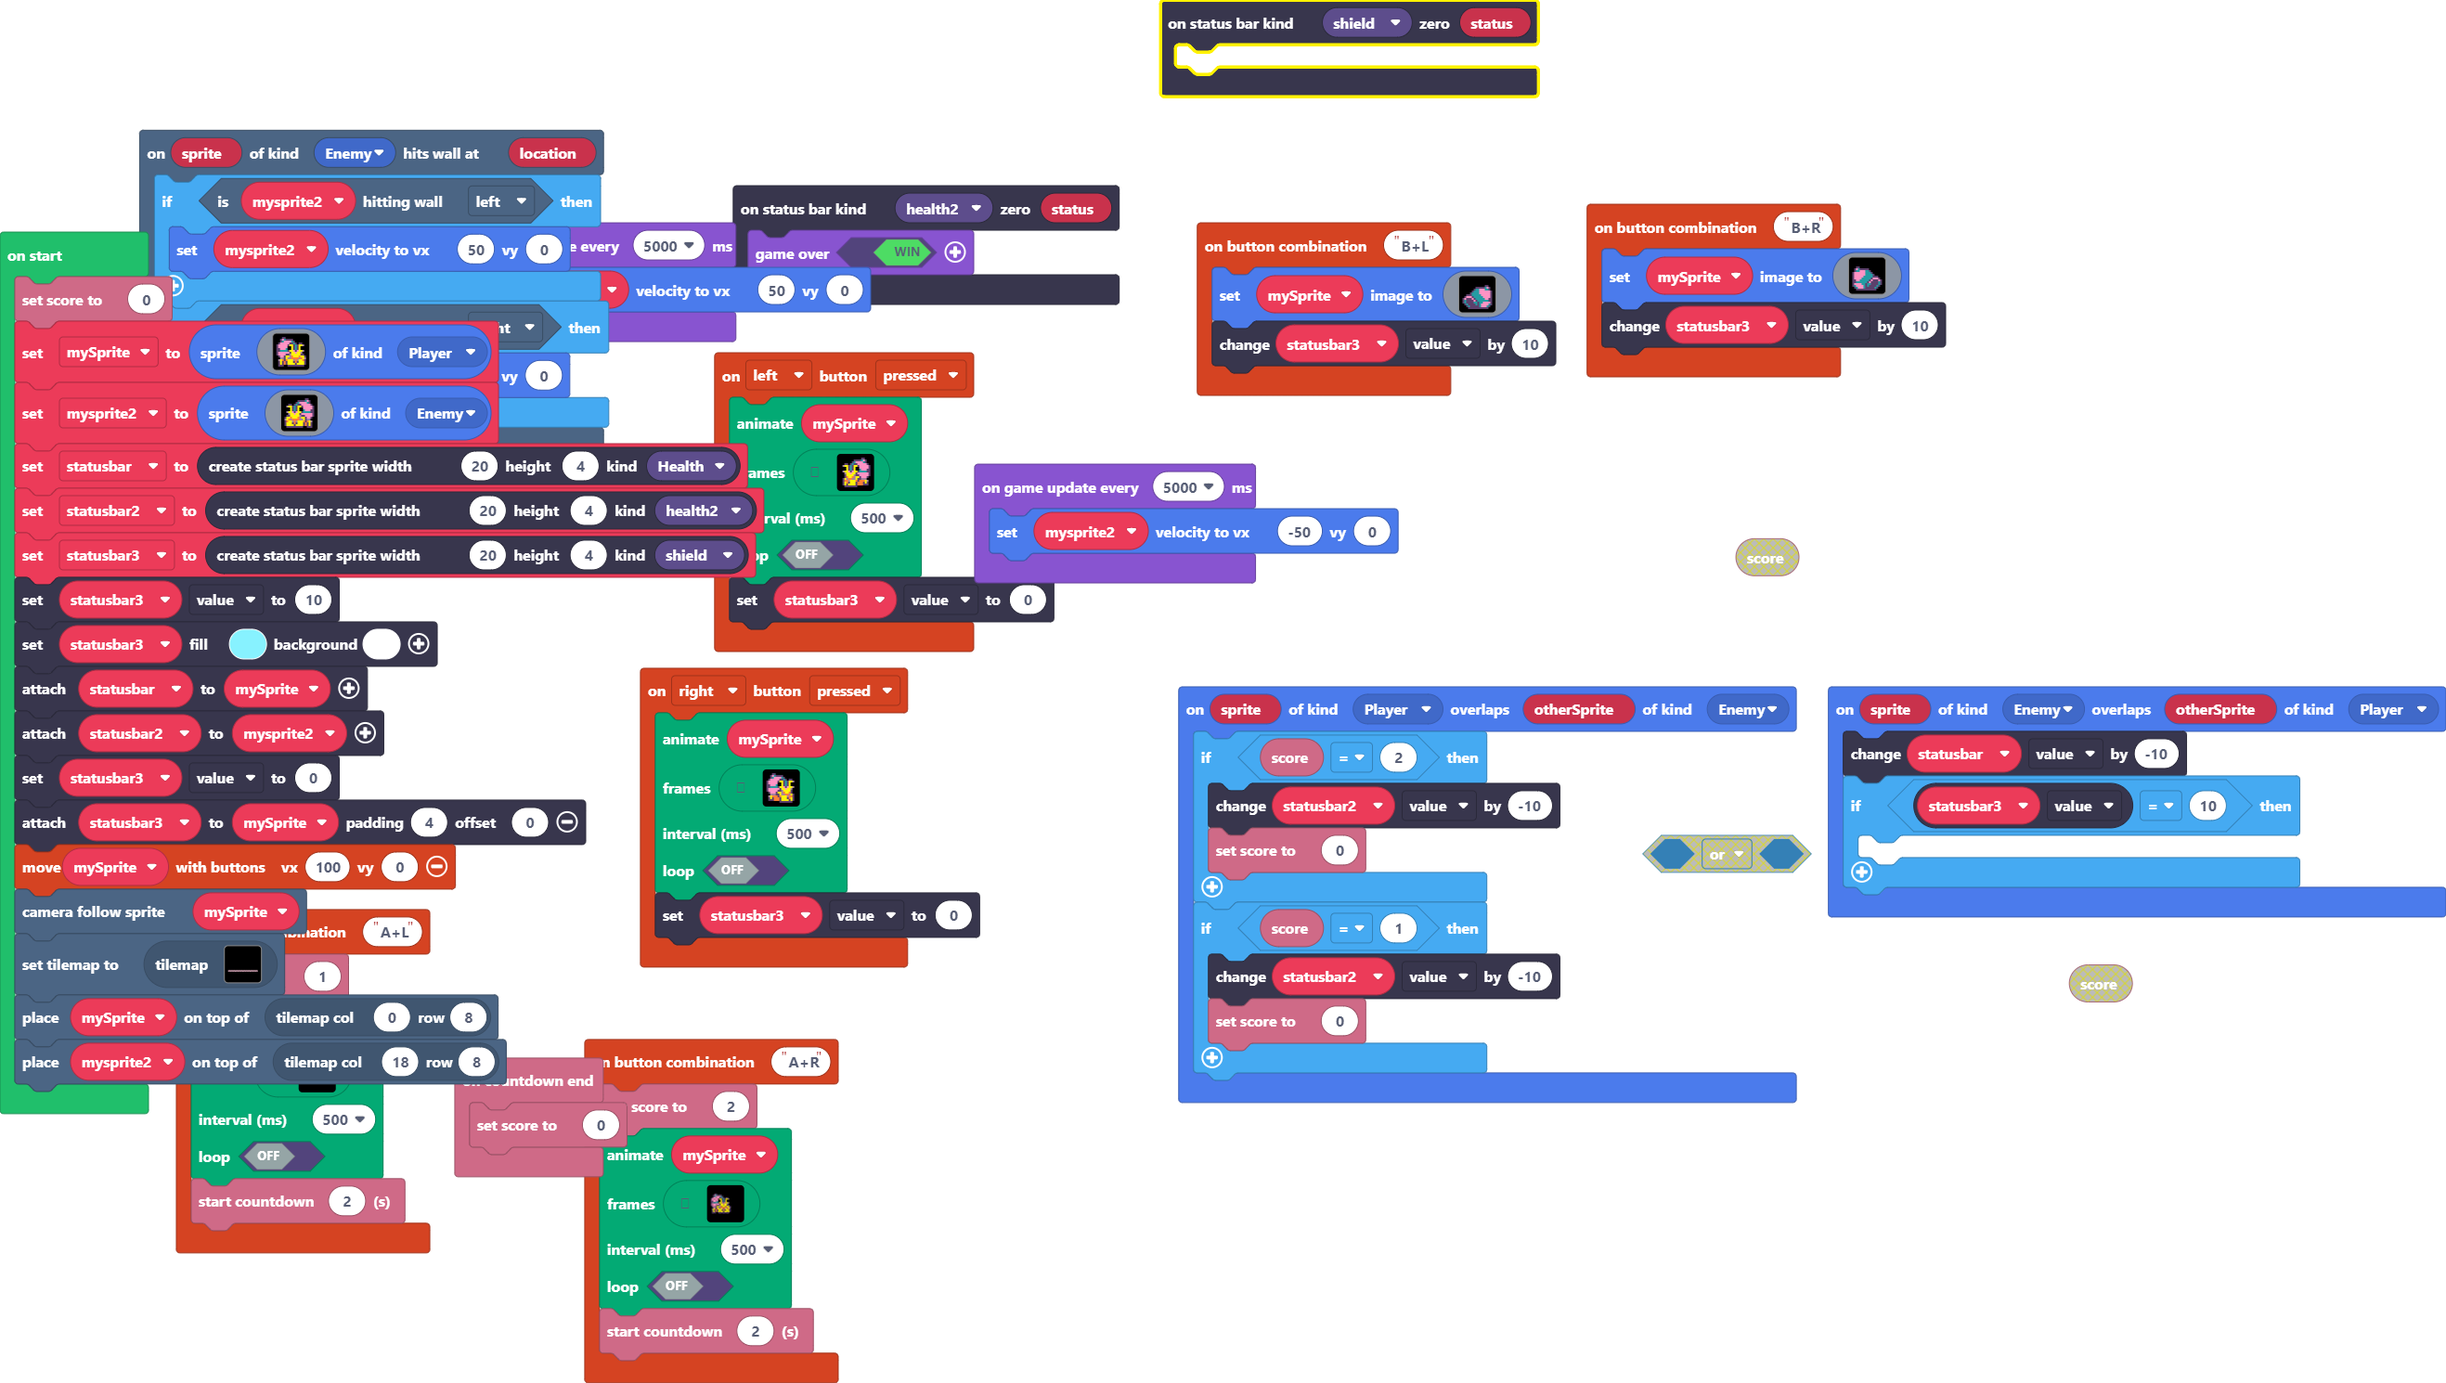
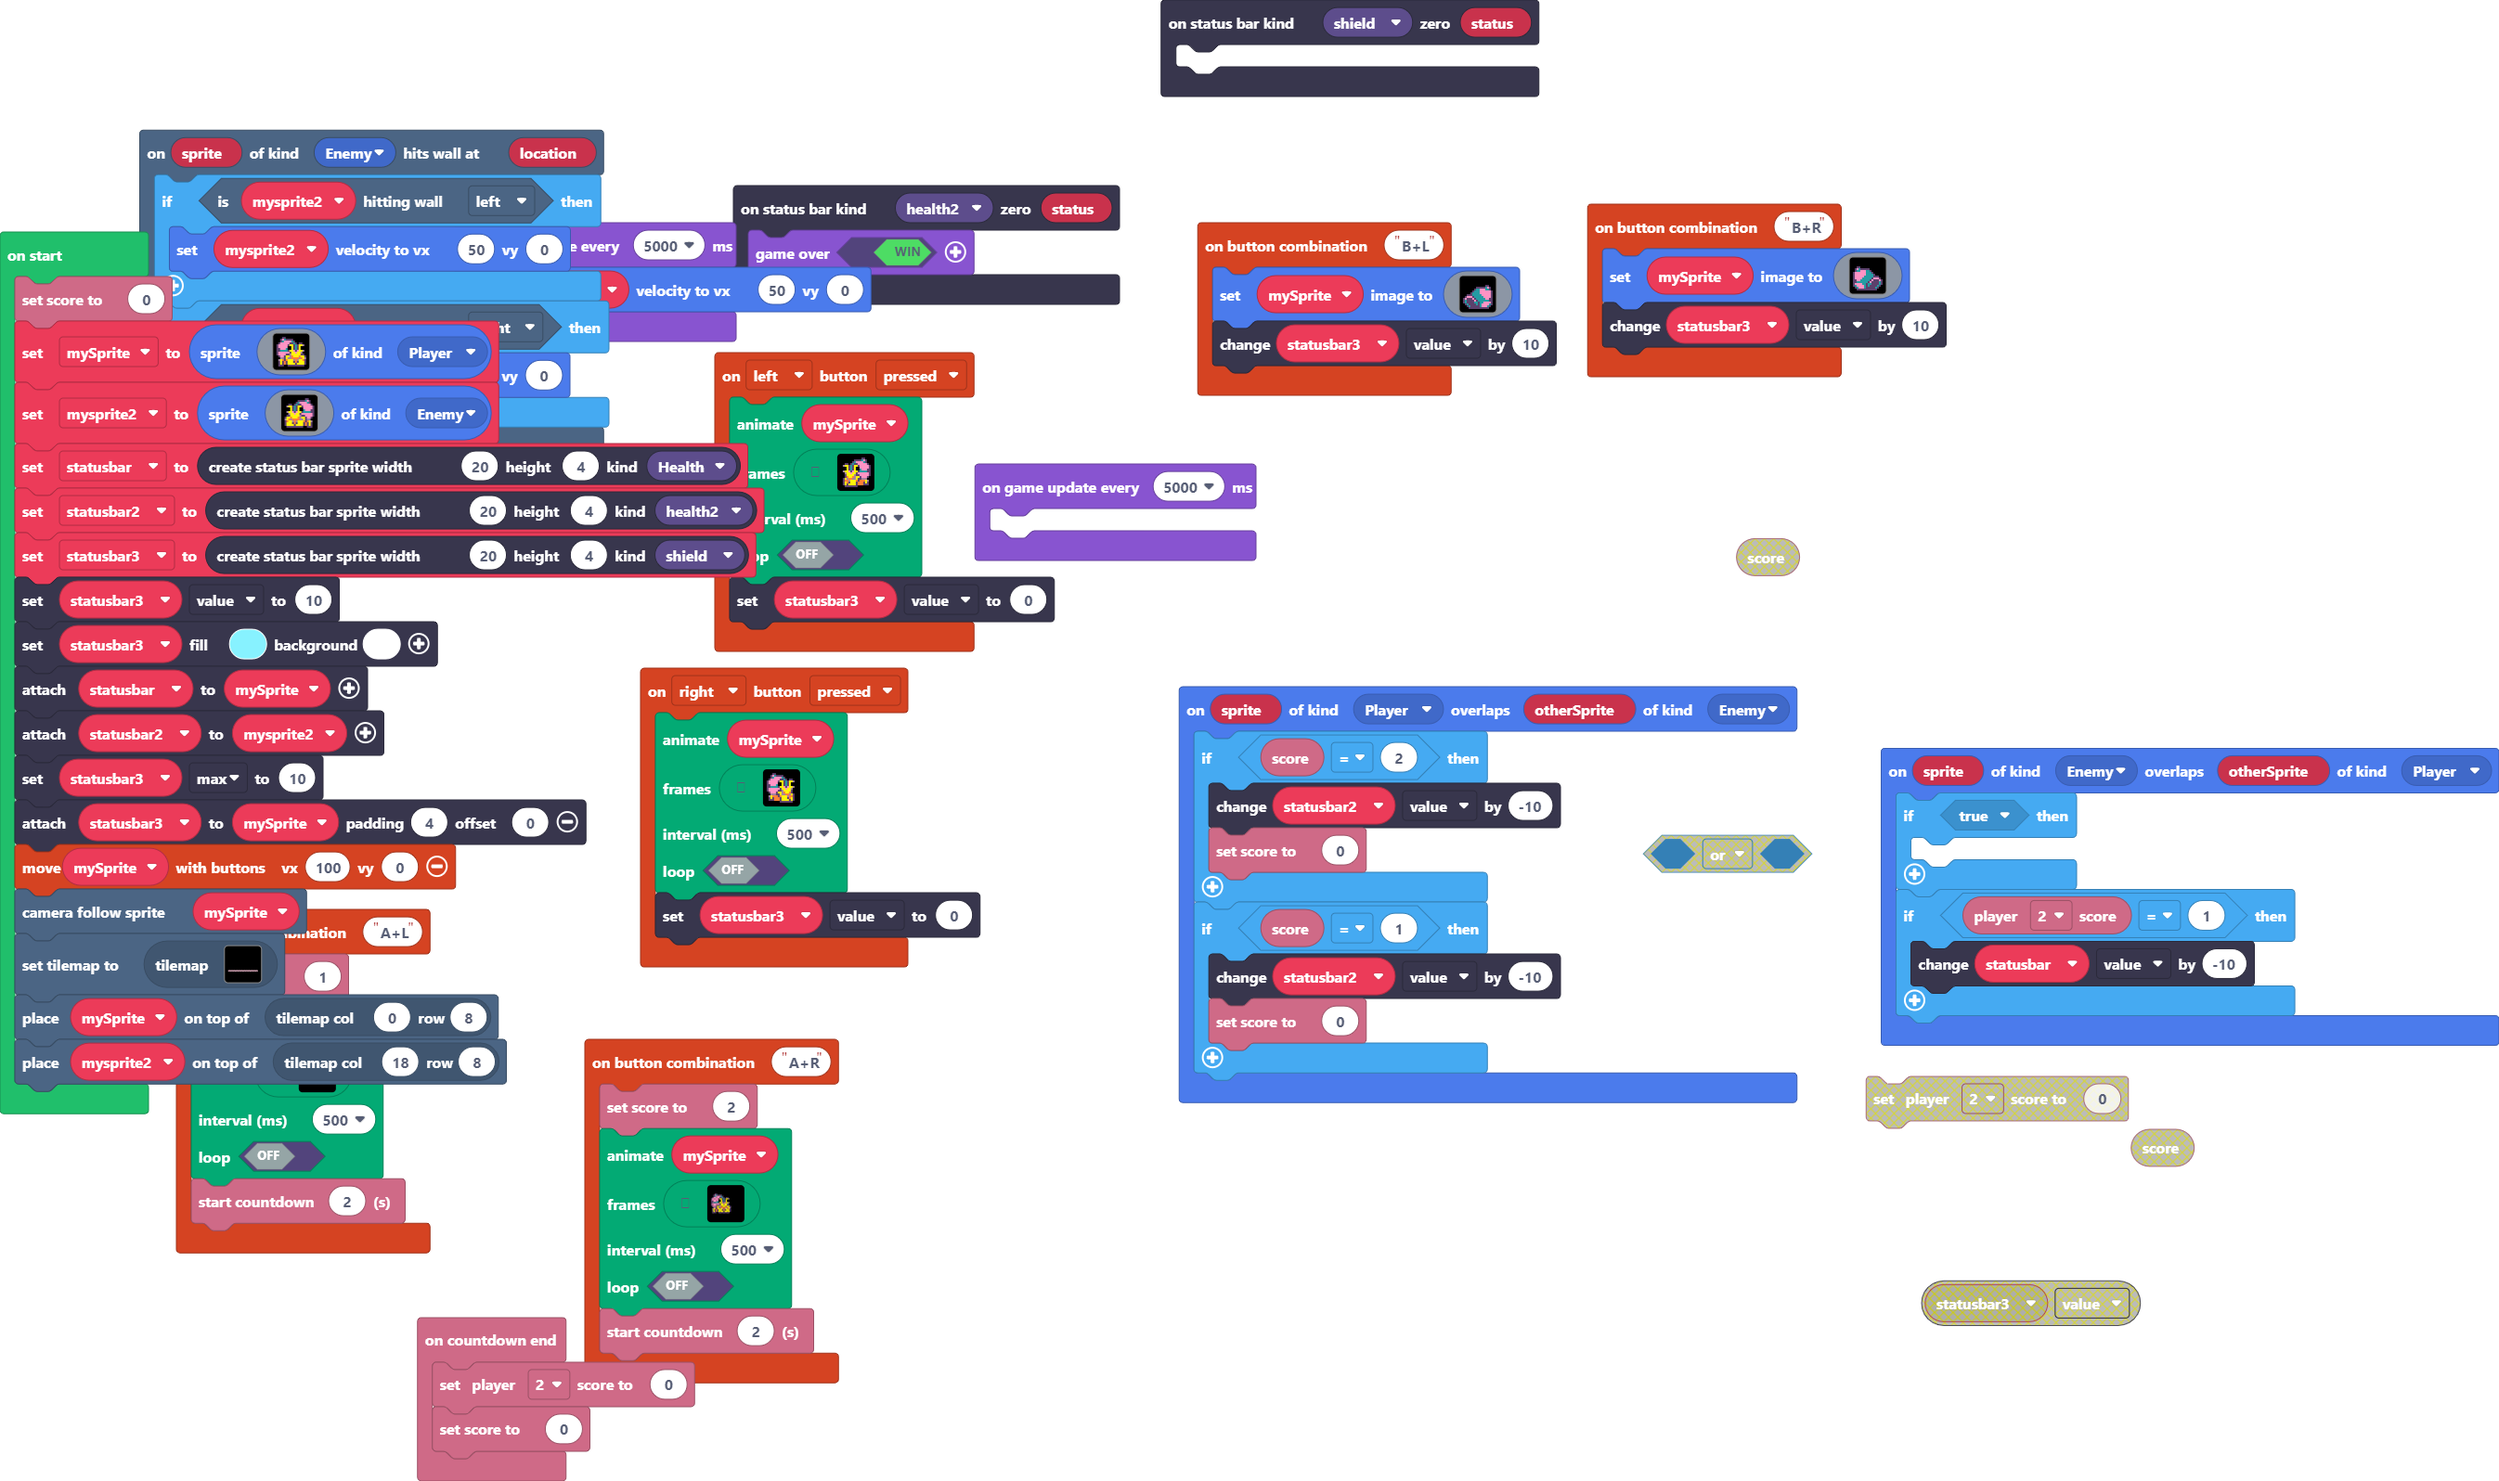
Update main.blocks, main.ts

diff --git a/main.ts b/main.ts
@@ -237,6 +237,7 @@ controller.left.onEvent(ControllerButtonEvent.Pressed, function () {
     statusbar3.value = 0
 })
 info.onCountdownEnd(function () {
+    info.player2.setScore(0)
     info.setScore(0)
 })
 controller.combos.attachCombo("A+R", function () {
@@ -437,9 +438,11 @@ controller.right.onEvent(ControllerButtonEvent.Pressed, function () {
     statusbar3.value = 0
 })
 sprites.onOverlap(SpriteKind.Enemy, SpriteKind.Player, function (sprite, otherSprite) {
-    statusbar.value += -10
-    if (statusbar3.value == 10) {
+    if (true) {
     	
+    }
+    if (info.player2.score() == 1) {
+        statusbar.value += -10
     }
 })
 statusbars.onZero(StatusBarKind.shield, function (status) {
@@ -504,7 +507,7 @@ statusbar3.value = 10
 statusbar3.setColor(9, 1)
 statusbar.attachToSprite(mySprite)
 statusbar2.attachToSprite(mysprite2)
-statusbar3.value = 0
+statusbar3.max = 10
 statusbar3.attachToSprite(mySprite, 4, 0)
 controller.moveSprite(mySprite, 100, 0)
 scene.cameraFollowSprite(mySprite)
@@ -515,5 +518,5 @@ game.onUpdateInterval(5000, function () {
     mysprite2.setVelocity(50, 0)
 })
 game.onUpdateInterval(5000, function () {
-    mysprite2.setVelocity(-50, 0)
+	
 })
